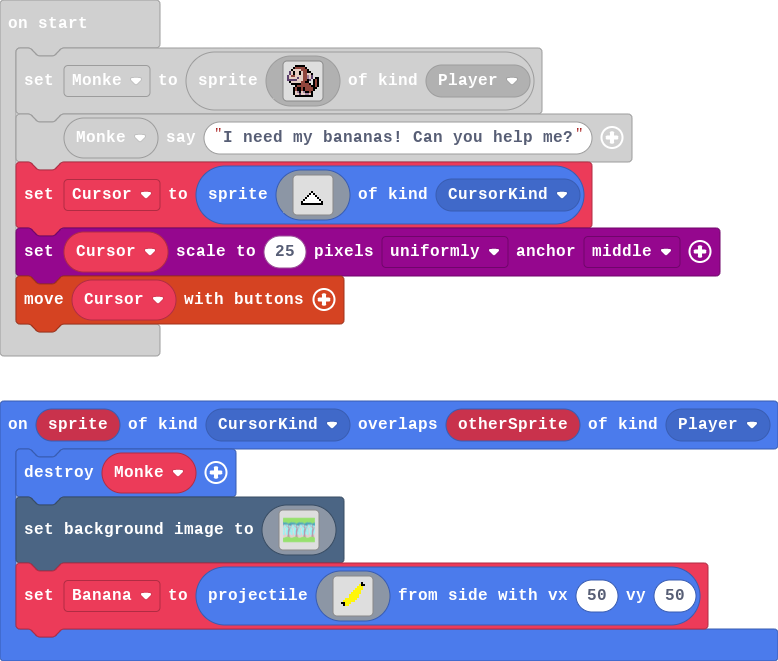
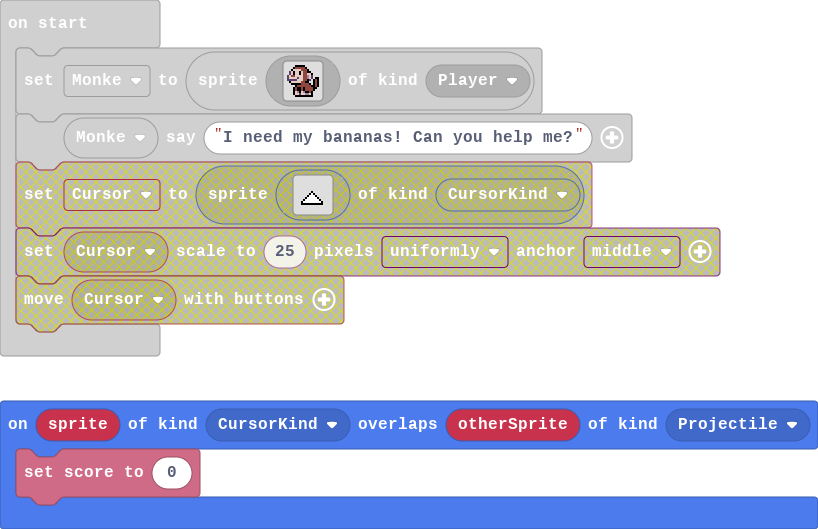
Update pxt.json, main.blocks, main.ts

diff --git a/main.ts b/main.ts
@@ -144,6 +144,9 @@ sprites.onOverlap(SpriteKind.CursorKind, SpriteKind.Player, function (sprite, ot
         . . . . . . . . . . . . . . . . 
         `, 50, 50)
 })
+sprites.onOverlap(SpriteKind.CursorKind, SpriteKind.Projectile, function (sprite, otherSprite) {
+    info.setScore(0)
+})
 let Banana: Sprite = null
 let Monke: Sprite = null
 Monke = sprites.create(img`
@@ -165,23 +168,3 @@ Monke = sprites.create(img`
     . . . . f f f f f f f f f . . . 
     `, SpriteKind.Player)
 Monke.sayText("I need my bananas! Can you help me?")
-let Cursor = sprites.create(img`
-    . . . . . . . . . . . . . . . . 
-    . . . . . . . . . . . . . . . . 
-    . . . . . . . . . . . . . . . . 
-    . . . . . . . . . . . . . . . . 
-    . . . . . . . . . . . . . . . . 
-    . . . . . . . . . . . . . . . . 
-    . . . . . . . f . . . . . . . . 
-    . . . . . . f 1 f . . . . . . . 
-    . . . . . f 1 1 1 f . . . . . . 
-    . . . . f 1 1 1 1 1 f . . . . . 
-    . . . f 1 1 1 1 1 1 1 f . . . . 
-    . . f 1 1 1 1 1 1 1 1 1 f . . . 
-    . . f f f f f f f f f f f . . . 
-    . . . . . . . . . . . . . . . . 
-    . . . . . . . . . . . . . . . . 
-    . . . . . . . . . . . . . . . . 
-    `, SpriteKind.CursorKind)
-scaling.scaleToPixels(Cursor, 25, ScaleDirection.Uniformly, ScaleAnchor.Middle)
-controller.moveSprite(Cursor)
